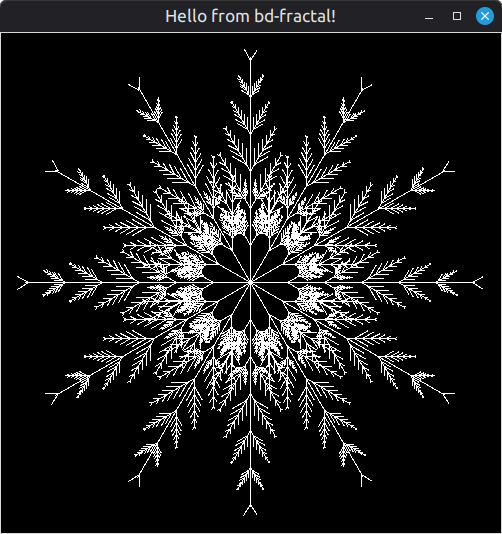
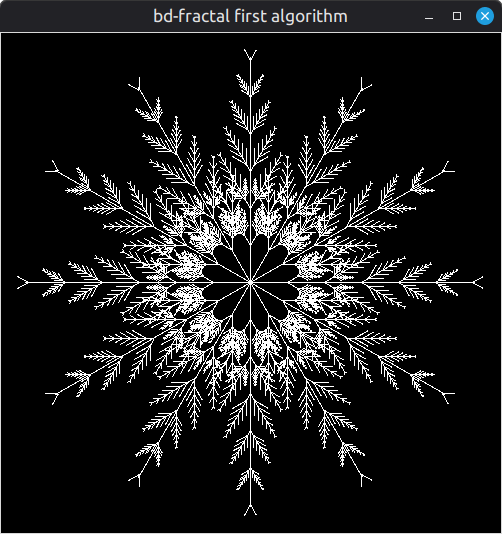
fixed float bug in branch calculation

diff --git a/src/first.py b/src/first.py
@@ -1,3 +1,4 @@
+import math
 from window import Window
 from point import Point
 from line import Line
@@ -21,7 +22,7 @@ def doStuff():
 
     p = getParams()
     # TODO: move size to settings
-    win = Window(800, 800, "Hello from bd-fractal!", p.backColor)
+    win = Window(500, 500, "bd-fractal first algorithm", p.backColor)
     length = (win.height // 2) - 25  # end branches were being clipped
     start = Point(0, 0)
     endPoints: list[Point] = _getEndPoints(start, p.spokeAngle, length)
@@ -30,7 +31,6 @@ def doStuff():
         win.redraw()
 
         line = Line(start, end)
-
         _drawBranches(p, win, line, 0)
 
         if p.doSleep:
@@ -53,7 +53,7 @@ def _drawBranches(p: Params, win: Window, origin: Line, recursionLevel: int):
 
     win.drawLine(origin, p.lineColor)
 
-    originLength = round(origin.length)
+    originLength = math.ceil(origin.length)
     if p.doFixedBranchInterval:
         branchInterval = p.branchInterval
     else:
@@ -89,10 +89,15 @@ def _drawBranches(p: Params, win: Window, origin: Line, recursionLevel: int):
             branchStartPoint,
             trig.getEndPoint(branchStartPoint, origin.angle - x, branchlen),
         )
+        # print(f"rightLine: {rightLine}")
         leftLine = Line(
             branchStartPoint,
             trig.getEndPoint(branchStartPoint, origin.angle + x, branchlen),
         )
+        # print(f"leftLine:  {leftLine}")
+
+        # if rightLine.length != leftLine.length:
+        #     print(f"{origin.angle} : {rightLine.length} vs {leftLine.length}")
 
         _drawBranches(p, win, rightLine, recursionLevel)
         _drawBranches(p, win, leftLine, recursionLevel)

diff --git a/src/trig.py b/src/trig.py
@@ -3,8 +3,6 @@ import math
 import numpy
 
 
-# TODO: I'm not sure the rounding is correct
-# I see some defects when zooming in on screen shot
 def getEndPoint(start: Point, angle: int, length: int) -> Point:
     """
     initially used to find the point at given length along an existing line
@@ -14,33 +12,32 @@ def getEndPoint(start: Point, angle: int, length: int) -> Point:
         the Line constructor will calculate the real value
     """
 
-    # special case needed for branches
+    # special case needed for branches as they shrink
     if length <= 0:
         return start
 
     angle = angle % 360
 
+    # TODO: not a todo, just a note about a bug
+    # had to round precision, I arbitrarily picked 8
+    # float problems, 0.5 -> 0.444444444444444449
+    # it was fucking up y coordinate and making the left branch off
+
     # x calculation
-    x = length * math.cos(math.radians(angle))
+    x = length * round(math.cos(math.radians(angle)), 8)
     # offset from wherever the line started
     x = round(x) + start.x
 
-    y = length * math.sin(math.radians(angle))
+    y = length * round(math.sin(math.radians(angle)), 8)
     y = round(y) + start.y
 
-    end = Point(x, y)
-
-    return end
+    return Point(x, y)
 
 
 def hypotenuse(base: int, opp: int) -> float:
     h = base**2 + opp**2
     h = math.sqrt(h)
-
-    # I think rounding to int was making lines slightly off, changed to float
-    # h = round(h)
     h = round(h, 4)
-    # print(h)
 
     return h
 

diff --git a/README.md b/README.md
@@ -33,9 +33,9 @@ boot.dev "First Personal Project"
 - `tkinter`  
   it did not come installed for me; Linux Mint 22.1  
   https://tkdocs.com/tutorial/install.html
-- `numpy`
+- `numpy` comes with python
 
-# Run/Use
+# Run
 
 ```shell
 uv run src/main.py
